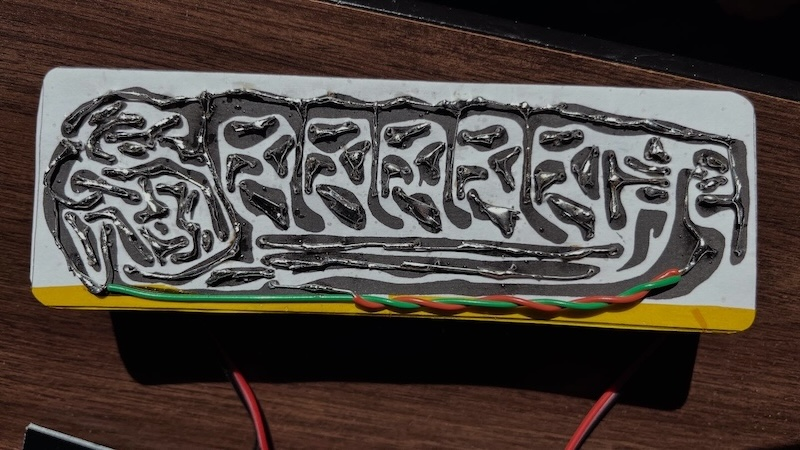
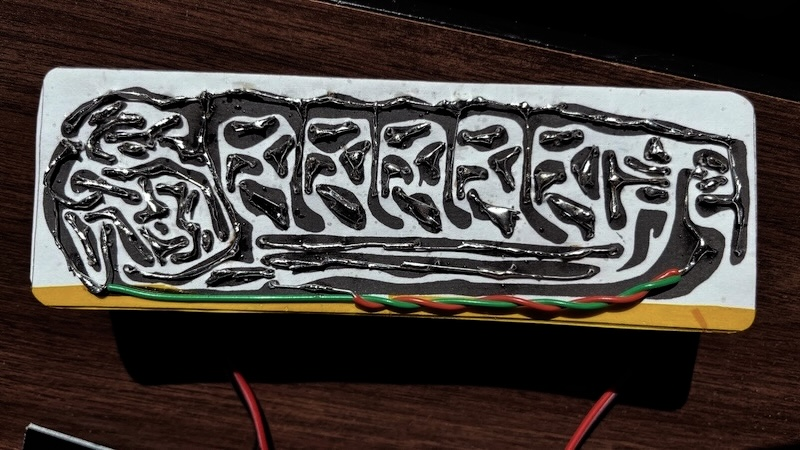
update menu

diff --git a/pages/about.html b/pages/about.html
@@ -20,12 +20,12 @@
       <ul class="sidebar">
         <li class="lli"><a href="pages/news.html">News</a></li>
         <li class="lli"><a href="pages/about.html">About</a></li>   
-        <li class="sli"><a href="pages/instruments/performance.html">Performance</a></li>
         <li class="sli"><a href="pages/electronics/electronics.html">Electronics</a></li>
         <li class="sli"><a href="pages/instruments/balloon.html">Balloon</a></li>
         <li class="sli"><a href="pages/instruments/wood.html">Wood</a></li>
         <li class="sli"><a href="pages/programming/code.html">Code</a></li>
         <li class="sli"><a href="pages/music.html">Music</a></li>
+        <li class="sli"><a href="https://www.youtube.com/@huichunyang/videos" target="_blank">Performance</a></li>
         <li class="lli"><a href="pages/journal.html">Journal</a></li>
       </ul>
     </div>
@@ -34,7 +34,7 @@
 <main>
 	<section>
     <h3>Bio</h3>
-    <p>Huichun Yang (楊惠鈞) is a Taiwanese experimental sound artist and instrument builder based in Brooklyn, New York. She improvises with Arbrasson, Daxophone, balloons, mouth harps, electronics, and computer processing. Through breath and touch, her body creates voids from tension and awakens wild sonic beings. <br><br> Her work has been presented internationally at High Zero Festival (Baltimore), the ISCM World New Music Days Festival (Romania), Non-Event (Boston), Residual Noise (Providence), the Experimental Electronic Sound Series Festival (California), the SOUND/IMAGE Festival (London), and the Artifact Series (New York). In 2025, she received a grant from the Foundation for Contemporary Arts. She was awarded a fellowship for the 2026 Art Omi: Music Residency.
+    <p>Huichun Yang (楊惠鈞) is a Taiwanese experimental sound artist and instrument builder based in Brooklyn, New York. She improvises with Arbrasson, Daxophone, balloons, mouth harps, electronics, and computer processing. Through breath and touch, her body creates voids from tension and awakens wild sonic beings. She acknowledges the land through her feet, shaping her performances close to the ground. <br><br> Her work has been presented internationally at High Zero Festival (Baltimore), the ISCM World New Music Days Festival (Romania), Non-Event (Boston), Residual Noise (Providence), the Experimental Electronic Sound Series Festival (California), the SOUND/IMAGE Festival (London), and the Artifact Series (New York). In 2025, she received a grant from the Foundation for Contemporary Arts. She was awarded a fellowship for the 2026 Art Omi: Music Residency.<br><br>Huichun's recent wish is to play drums, dance and swim. She's always welcome any collaboration, and still looking for a job. Her favorite fruit is guava. 
     </p>
     
 <h3>contact</h3>	

diff --git a/pages/instruments/performance.html b/pages/instruments/performance.html
@@ -21,12 +21,12 @@
       <ul class="sidebar">
         <li class="lli"><a href="pages/news.html">News</a></li>
         <li class="lli"><a href="pages/about.html">About</a></li>   
-        <li class="sli"><a href="pages/instruments/performance.html">Performance</a></li>
         <li class="sli"><a href="pages/electronics/electronics.html">Electronics</a></li>
         <li class="sli"><a href="pages/instruments/balloon.html">Balloon</a></li>
         <li class="sli"><a href="pages/instruments/wood.html">Wood</a></li>
         <li class="sli"><a href="pages/programming/code.html">Code</a></li>
         <li class="sli"><a href="pages/music.html">Music</a></li>
+        <li class="sli"><a href="https://www.youtube.com/@huichunyang/videos" target="_blank">Performance</a></li>
         <li class="lli"><a href="pages/journal.html">Journal</a></li>
       </ul>
     </div>
@@ -89,7 +89,7 @@
   </section>
 
   <section>
-  <p>Huichun’s electroacoustic practice braids computer code, spectral analysis, and spatial sound with daxophones, arbrassons, balloons, and mouth harps, tracing a line between wild improvisation and deep listening. She acknowledges the land through her feet, shaping her performances close to the ground. Touch and breath become her language, a way of speaking with history and forming relational bodies of sound and spaces. </p>
+  <p>Huichun’s electroacoustic practice braids computer code and spatial sound with daxophones, arbrassons, balloons, and mouth harps, tracing a line between wild improvisation and deep listening. She acknowledges the land through her feet, shaping her performances close to the ground. Touch and breath become her language, a way of speaking with history and forming relational bodies of sound and spaces. </p>
   <section>
 </main>
 

diff --git a/pages/journal.html b/pages/journal.html
@@ -20,12 +20,12 @@
       <ul class="sidebar">
         <li class="lli"><a href="pages/news.html">News</a></li>
         <li class="lli"><a href="pages/about.html">About</a></li>   
-        <li class="sli"><a href="pages/instruments/performance.html">Performance</a></li>
         <li class="sli"><a href="pages/electronics/electronics.html">Electronics</a></li>
         <li class="sli"><a href="pages/instruments/balloon.html">Balloon</a></li>
         <li class="sli"><a href="pages/instruments/wood.html">Wood</a></li>
         <li class="sli"><a href="pages/programming/code.html">Code</a></li>
         <li class="sli"><a href="pages/music.html">Music</a></li>
+        <li class="sli"><a href="https://www.youtube.com/@huichunyang/videos" target="_blank">Performance</a></li>
         <li class="lli"><a href="pages/journal.html">Journal</a></li>
       </ul>
     </div>
@@ -164,7 +164,7 @@
 
   <article>
     <time datetime="2025-08-25">August 25, 2025</time>
-    <p>I was working with Daniel since the past few days, helping with sanding and oiling the dax, in exchange for having my own daxophone. It is also hanging out with Daniel that I know the word "creative capitalism". It's nice that artist found a way to wade and create path through this swamp of capitalism.</p>
+    <p>I was working with Daniel since the past few days, helping with sanding and oiling the dax, in exchange for having my own daxophone. It is also hanging out with Daniel that I know the word "creative capitalism". </p>
     <img src="../pics/dax01.jpeg">
   </article>
 

diff --git a/pages/instruments/wood.html b/pages/instruments/wood.html
@@ -21,12 +21,12 @@
       <ul class="sidebar">
         <li class="lli"><a href="pages/news.html">News</a></li>
         <li class="lli"><a href="pages/about.html">About</a></li>   
-        <li class="sli"><a href="pages/instruments/performance.html">Performance</a></li>
         <li class="sli"><a href="pages/electronics/electronics.html">Electronics</a></li>
         <li class="sli"><a href="pages/instruments/balloon.html">Balloon</a></li>
         <li class="sli"><a href="pages/instruments/wood.html">Wood</a></li>
         <li class="sli"><a href="pages/programming/code.html">Code</a></li>
         <li class="sli"><a href="pages/music.html">Music</a></li>
+        <li class="sli"><a href="https://www.youtube.com/@huichunyang/videos" target="_blank">Performance</a></li>
         <li class="lli"><a href="pages/journal.html">Journal</a></li>
       </ul>
     </div>
@@ -77,6 +77,8 @@
     <img src="../pics/abs15.JPG">
     <p>I built a hybrid version of arbrasson using a XIAO ESP32-C3, an MPU-6050, and a LiPo battery, allowing it to respond to my gestures and connect wirelessly to real-time audio processing in MaxMSP.</p>
     <img src="../pics/abs14.JPG">
+    <img src="../pics/abs22.jpg">
+
     </section>
     <section>
     <!-- opensystemsstudios -->

diff --git a/pages/news.html b/pages/news.html
@@ -20,12 +20,12 @@
       <ul class="sidebar">
         <li class="lli"><a href="pages/news.html">News</a></li>
         <li class="lli"><a href="pages/about.html">About</a></li>   
-        <li class="sli"><a href="pages/instruments/performance.html">Performance</a></li>
         <li class="sli"><a href="pages/electronics/electronics.html">Electronics</a></li>
         <li class="sli"><a href="pages/instruments/balloon.html">Balloon</a></li>
         <li class="sli"><a href="pages/instruments/wood.html">Wood</a></li>
         <li class="sli"><a href="pages/programming/code.html">Code</a></li>
         <li class="sli"><a href="pages/music.html">Music</a></li>
+        <li class="sli"><a href="https://www.youtube.com/@huichunyang/videos" target="_blank">Performance</a></li>        
         <li class="lli"><a href="pages/journal.html">Journal</a></li>
       </ul>
     </div>

diff --git a/index.html b/index.html
@@ -21,12 +21,12 @@
       <ul class="sidebar">
         <li class="lli"><a href="pages/news.html">News</a></li>
         <li class="lli"><a href="pages/about.html">About</a></li>   
-        <li class="sli"><a href="pages/instruments/performance.html">Performance</a></li>
         <li class="sli"><a href="pages/electronics/electronics.html">Electronics</a></li>
         <li class="sli"><a href="pages/instruments/balloon.html">Balloon</a></li>
         <li class="sli"><a href="pages/instruments/wood.html">Wood</a></li>
         <li class="sli"><a href="pages/programming/code.html">Code</a></li>
         <li class="sli"><a href="pages/music.html">Music</a></li>
+        <li class="sli"><a href="https://www.youtube.com/@huichunyang/videos" target="_blank">Performance</a></li>
         <li class="lli"><a href="pages/journal.html">Journal</a></li>
       </ul>
     </div>

diff --git a/pages/electronics/electronics.html b/pages/electronics/electronics.html
@@ -20,12 +20,12 @@
       <ul class="sidebar">
         <li class="lli"><a href="pages/news.html">News</a></li>
         <li class="lli"><a href="pages/about.html">About</a></li>   
-        <li class="sli"><a href="pages/instruments/performance.html">Performance</a></li>
         <li class="sli"><a href="pages/electronics/electronics.html">Electronics</a></li>
         <li class="sli"><a href="pages/instruments/balloon.html">Balloon</a></li>
         <li class="sli"><a href="pages/instruments/wood.html">Wood</a></li>
         <li class="sli"><a href="pages/programming/code.html">Code</a></li>
         <li class="sli"><a href="pages/music.html">Music</a></li>
+        <li class="sli"><a href="https://www.youtube.com/@huichunyang/videos" target="_blank">Performance</a></li>
         <li class="lli"><a href="pages/journal.html">Journal</a></li>
       </ul>
     </div>

diff --git a/pages/instruments/balloon.html b/pages/instruments/balloon.html
@@ -20,12 +20,12 @@
       <ul class="sidebar">
         <li class="lli"><a href="pages/news.html">News</a></li>
         <li class="lli"><a href="pages/about.html">About</a></li>   
-        <li class="sli"><a href="pages/instruments/performance.html">Performance</a></li>
         <li class="sli"><a href="pages/electronics/electronics.html">Electronics</a></li>
         <li class="sli"><a href="pages/instruments/balloon.html">Balloon</a></li>
         <li class="sli"><a href="pages/instruments/wood.html">Wood</a></li>
         <li class="sli"><a href="pages/programming/code.html">Code</a></li>
         <li class="sli"><a href="pages/music.html">Music</a></li>
+        <li class="sli"><a href="https://www.youtube.com/@huichunyang/videos" target="_blank">Performance</a></li>
         <li class="lli"><a href="pages/journal.html">Journal</a></li>
       </ul>
     </div>

diff --git a/pages/music.html b/pages/music.html
@@ -20,12 +20,12 @@
       <ul class="sidebar">
         <li class="lli"><a href="pages/news.html">News</a></li>
         <li class="lli"><a href="pages/about.html">About</a></li>   
-        <li class="sli"><a href="pages/instruments/performance.html">Performance</a></li>
         <li class="sli"><a href="pages/electronics/electronics.html">Electronics</a></li>
         <li class="sli"><a href="pages/instruments/balloon.html">Balloon</a></li>
         <li class="sli"><a href="pages/instruments/wood.html">Wood</a></li>
         <li class="sli"><a href="pages/programming/code.html">Code</a></li>
         <li class="sli"><a href="pages/music.html">Music</a></li>
+        <li class="sli"><a href="https://www.youtube.com/@huichunyang/videos" target="_blank">Performance</a></li>
         <li class="lli"><a href="pages/journal.html">Journal</a></li>
       </ul>
     </div>

diff --git a/pages/programming/code.html b/pages/programming/code.html
@@ -20,12 +20,12 @@
       <ul class="sidebar">
         <li class="lli"><a href="pages/news.html">News</a></li>
         <li class="lli"><a href="pages/about.html">About</a></li>   
-        <li class="sli"><a href="pages/instruments/performance.html">Performance</a></li>
         <li class="sli"><a href="pages/electronics/electronics.html">Electronics</a></li>
         <li class="sli"><a href="pages/instruments/balloon.html">Balloon</a></li>
         <li class="sli"><a href="pages/instruments/wood.html">Wood</a></li>
         <li class="sli"><a href="pages/programming/code.html">Code</a></li>
         <li class="sli"><a href="pages/music.html">Music</a></li>
+        <li class="sli"><a href="https://www.youtube.com/@huichunyang/videos" target="_blank">Performance</a></li>
         <li class="lli"><a href="pages/journal.html">Journal</a></li>
       </ul>
     </div>
